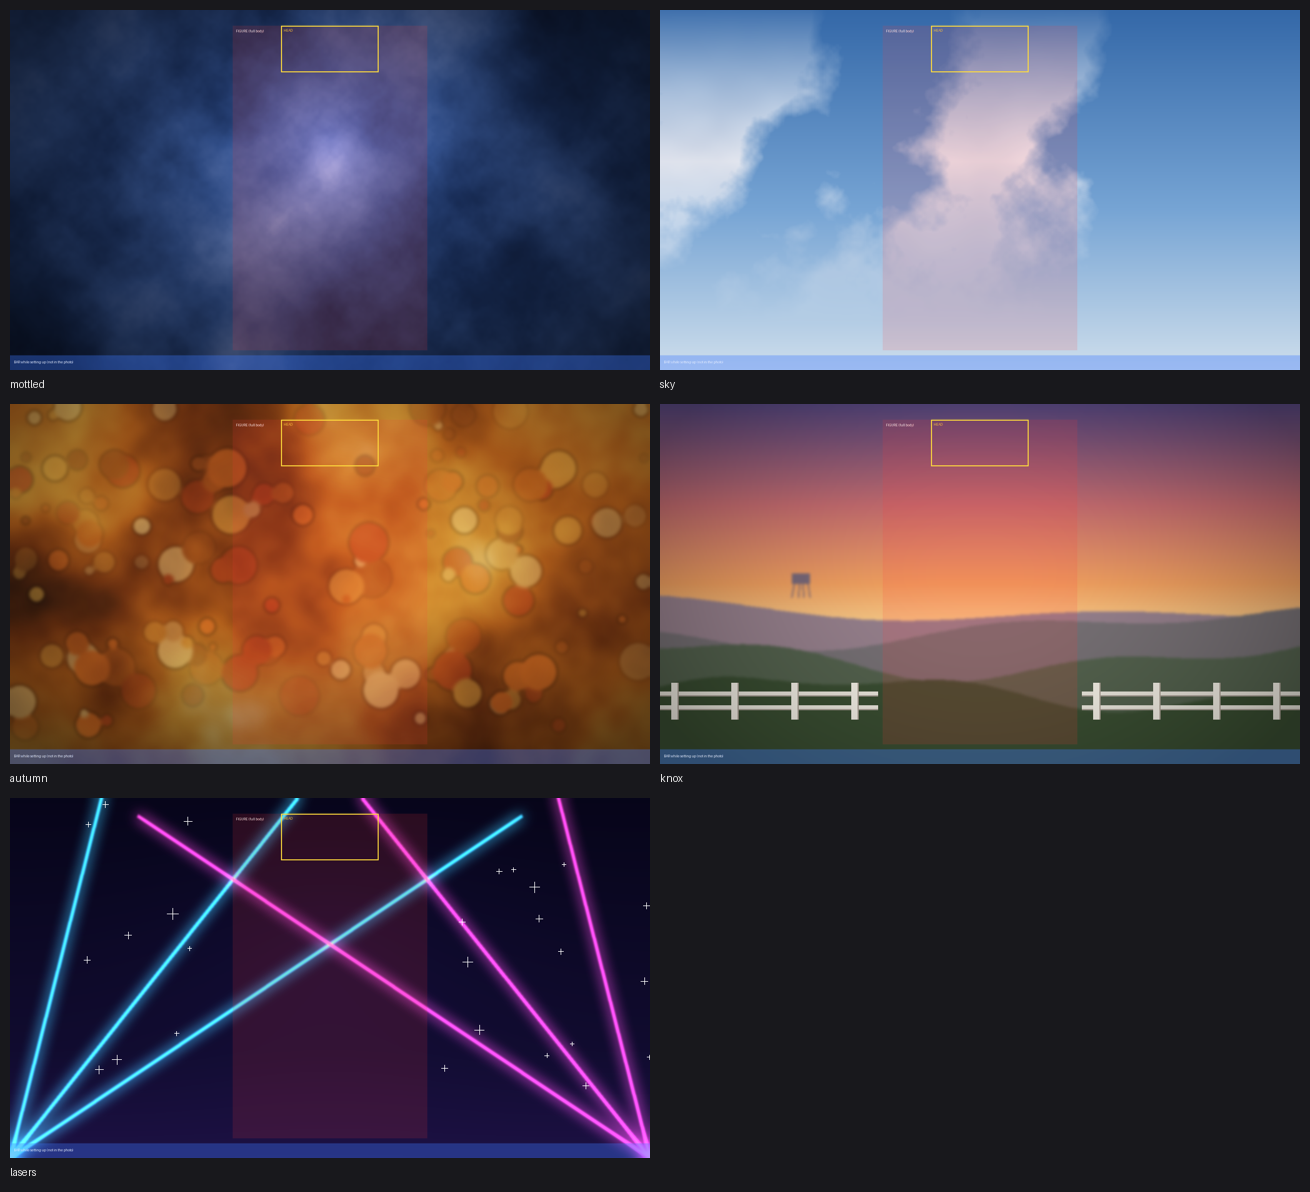
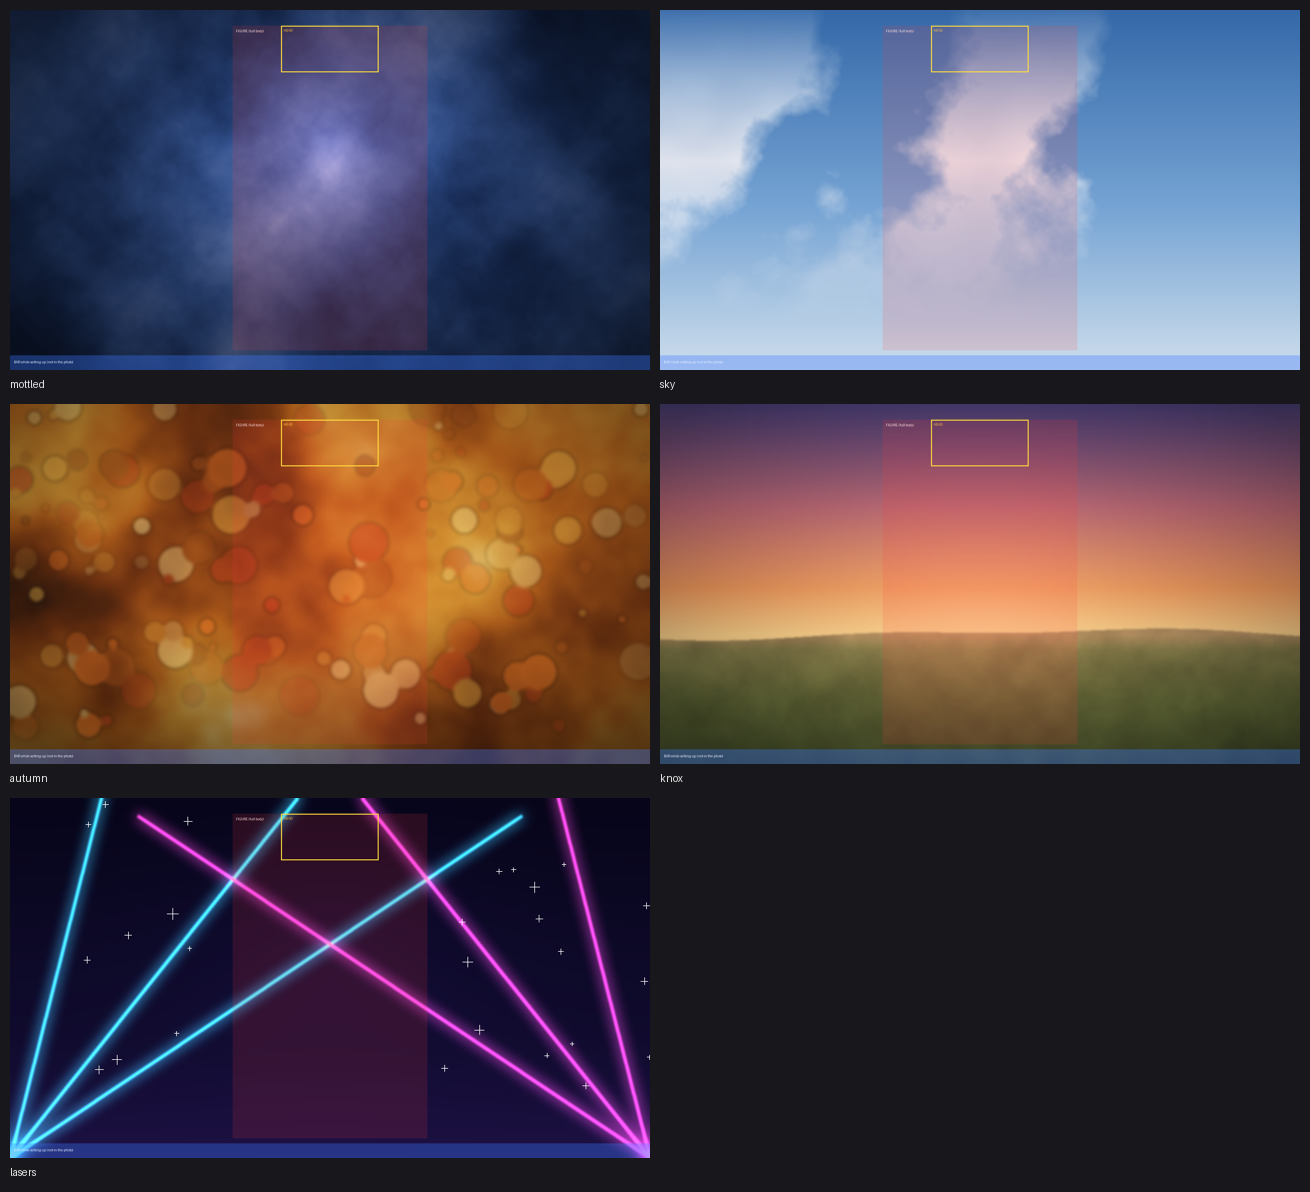
Studio backdrop Knox County: just a sunset over a field (145)
The director: the first draft's water tower read as a floating object; just
a sunset with a field, not too much. The tower and the fence are gone.

Claude-Session: https://claude.ai/code/session_01HmM4YtJhfcSkLZfnWDMxF6

Changed region(s): [[0.4885, 0.4656, 1.0, 0.6208]]

diff --git a/ZeDUI/tools/studio/make_backdrops.py b/ZeDUI/tools/studio/make_backdrops.py
@@ -133,42 +133,25 @@ def autumn():
 
 
 def knox():
-    """Knox County at sundown: a warm sky, rolling Kentucky hills fading into haze, a white plank fence either side"""
+    """Knox County at sundown: just a sunset over a field (the director, Nov 10 2026: "Just a sunset would be fine with a
+    field in the background. Doesn't have to be too much." The first draft's water tower read as a floating object,
+    and its fence went with it)"""
     x, y = grids()
-    col = ramp(y, [(0.0, (88, 72, 128)), (0.28, (196, 108, 112)), (0.5, (240, 160, 96)), (0.62, (250, 206, 140)), (1.0, (250, 206, 140))])
-    img = to_img(col)
-    d = ImageDraw.Draw(img)
-    rng = np.random.default_rng(41)
-    # the hills: four ridges, far to near, each a smooth wave, hazier the farther
-    ridges = [(0.56, 0.035, (150, 128, 140)), (0.62, 0.045, (118, 112, 116)), (0.70, 0.05, (84, 98, 78)), (0.80, 0.04, (58, 78, 50))]
-    for k, (base, amp, c) in enumerate(ridges):
-        ph = rng.random() * 6.28
-        ph2 = rng.random() * 6.28
-        pts = [(0, H)]
-        for i in range(0, W + 8, 8):
-            t = i / W
-            yy = base + amp * np.sin(t * (3 + k) + ph) + amp * 0.5 * np.sin(t * (9 + 2 * k) + ph2)
-            pts.append((i, yy * H))
-        pts.append((W, H))
-        d.polygon(pts, fill=c)
-    # a water tower on the far ridge, left of centre (a small silhouette: a landmark, any county's)
-    tx, ty = int(W * 0.22), int(H * 0.53)
-    d.rectangle([tx - 14, ty - 34, tx + 14, ty - 18], fill=(120, 104, 120))
-    for lx in (tx - 11, tx - 3, tx + 3, tx + 11):
-        d.line([lx, ty - 18, lx + (lx - tx) // 3, ty + 4], fill=(120, 104, 120), width=2)
-    img = img.filter(ImageFilter.GaussianBlur(2.2))
-    # the fence, near and sharp, either side of the middle (the figure stands between)
-    d = ImageDraw.Draw(img)
-    fy = int(H * 0.80)
-    for x0, x1 in ((0, int(W * 0.34)), (int(W * 0.66), W)):
-        for rail in (fy, fy + 22):
-            d.rectangle([x0, rail, x1, rail + 6], fill=(236, 232, 222))
-            d.line([x0, rail + 6, x1, rail + 6], fill=(170, 160, 150), width=2)
-        post = x0 + 18
-        while post < x1:
-            d.rectangle([post, fy - 14, post + 10, fy + 44], fill=(244, 240, 230))
-            d.line([post + 10, fy - 14, post + 10, fy + 44], fill=(176, 166, 154), width=2)
-            post += 96
+    hz = 0.64                                            # the horizon
+    sky = ramp(y / hz, [(0.0, (74, 62, 118)), (0.45, (186, 104, 116)), (0.8, (238, 152, 92)), (1.0, (252, 208, 138))])
+    # the sun's warm haze, low behind the figure, and a hazy far edge of the field
+    sun = glow(0.5, hz, 0.55, 1.6)
+    sky = sky * (1 - 0.35 * sun[..., None]) + np.array((255, 226, 168), np.float32) * 0.35 * sun[..., None]
+    t = np.clip((y - hz) / (1 - hz), 0, 1)
+    field = ramp(t, [(0.0, (176, 140, 96)), (0.12, (128, 120, 72)), (0.5, (92, 98, 52)), (1.0, (62, 72, 38))])
+    grass = noise(W, H, octaves=5, base=24, persist=0.5, seed=42)
+    field *= (0.88 + 0.24 * grass)[..., None]
+    field = field * (1 - 0.25 * sun[..., None]) + np.array((236, 186, 110), np.float32) * 0.25 * sun[..., None]
+    # a gentle roll in the horizon, so the field isn't a ruler line
+    edge = hz + 0.012 * np.sin(x * 5.0 + 1.3) + 0.006 * np.sin(x * 13.0 + 0.4)
+    m = (y >= edge)[..., None]
+    col = np.where(m, field, sky)
+    img = to_img(col).filter(ImageFilter.GaussianBlur(1.6))
     arr = np.asarray(img, np.float32) * vignette(0.3)[..., None]
     return to_img(arr)
 

diff --git a/ZeDUI/PUNCH_LIST.md b/ZeDUI/PUNCH_LIST.md
@@ -3598,6 +3598,10 @@ Items QA has confirmed in the game in full (their history stays in place above; 
     the next; the last pick is kept for the session. Seven new words in all 28 languages. studio_sim 55/0.
     **Check (QA, Mac):** the tray, each swatch, the roll up and down; a photo on each backdrop (paper edge to edge,
     no roller); a 16:10 screen: the sides cropped, nothing stretched; Leave and back: the same backdrop.
+    **The director, Nov 10 2026, on Knox County:** "just has a floating object on the middle left ... Just a sunset
+    would be fine with a field in the background. Doesn't have to be too much." Redrawn: a sunset sky (dusk purple to
+    gold at the horizon, the sun's haze low behind the figure) over a plain field with a gentle roll at its edge;
+    the water tower and the fence gone.
 
 146. **Fast looting: stats on hover, a box to select (the director, Nov 10 2026, after watching a vanilla player loot
     on a stream: "They are moving fast through the inventory windows, scrolling, selecting multiples, dragging to
